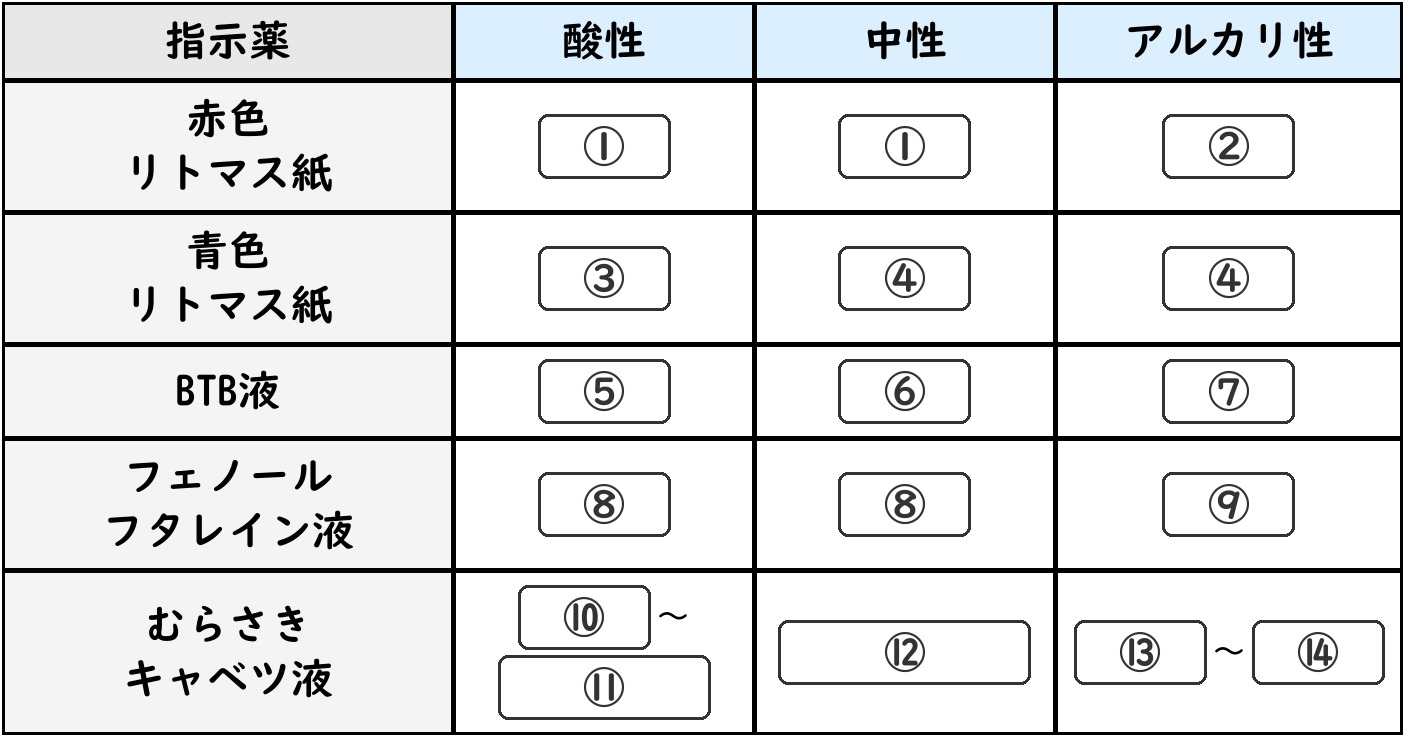
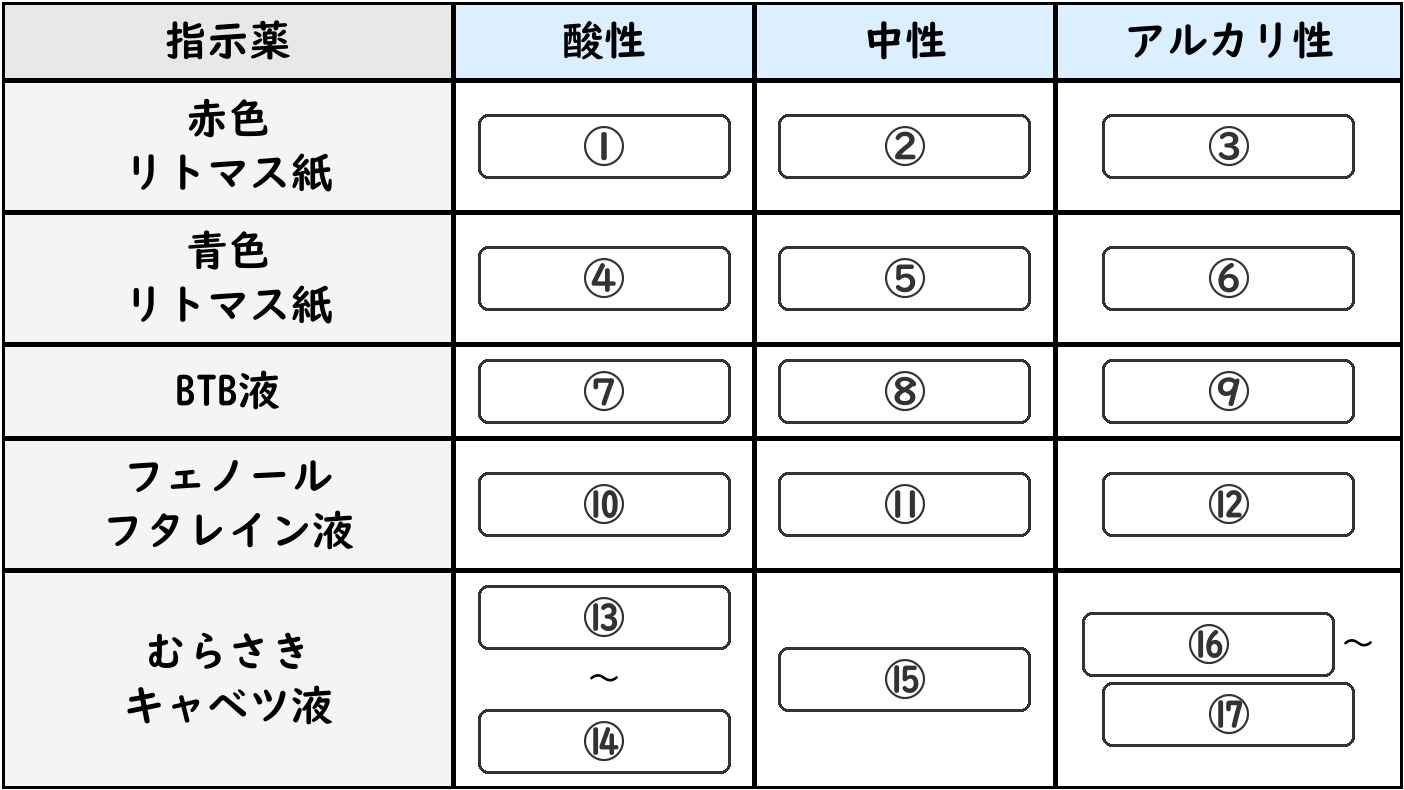
理科 第3回: 指示薬の表を1マス1番号（①〜⑰）に振り直し、聞けなかった3マスを追加
元データ（4db08056）を取り込み、1619 → 1622問。増えた3（r3m169〜171）。番号だけ変わった13問と、答えを①②の形にした4問は id そのまま。画像 r3_shijiyaku.jpg（1404x790）と IMG_SIZES も同じコミット。

Changed region(s): [[0.0, 0.0, 1.0, 1.0], [0.5513, 0.8125, 0.735, 0.9375]]

diff --git a/index.html b/index.html
@@ -2629,7 +2629,7 @@ function startConnectTimeout(side){
 // images/内の各画像の実サイズ。<img>にwidth/height属性を設定することで、
 // 読み込み前でも正しい縦横比の分だけ表示スペースを確保でき、
 // 画像読み込み完了時のレイアウトのガタつき（＝それに伴うタップのすれ違い）を防ぐ。
-const IMG_SIZES = {"img_01.jpg":[581,620],"img_02.jpg":[627,579],"img_03.jpg":[714,417],"img_04.jpg":[514,483],"img_05.jpg":[644,532],"img_06.jpg":[463,429],"img_07.jpg":[1156,446],"img_08.jpg":[573,586],"img_09.jpg":[506,198],"img_10.jpg":[497,146],"img_11.jpg":[503,499],"img_12.jpg":[518,578],"img_13.jpg":[746,621],"img_14.jpg":[713,567],"img_15.jpg":[658,628],"img_16.png":[642,589],"img_17.png":[535,597],"img_18.png":[510,295],"img_19.png":[1399,307],"img_20.png":[448,714],"img_21.png":[648,595],"img_22.png":[244,234],"img_23.jpg":[346,355],"img_24.jpg":[209,263],"img_25.jpg":[228,244],"kai1_01.jpg":[374,356],"kai1_02.jpg":[348,339],"kai1_03.jpg":[492,339],"kai1_04.jpg":[352,340],"kai1_05.jpg":[357,340],"kai1_06.jpg":[261,340],"kai1_07.jpg":[461,340],"kai1_08.jpg":[444,340],"kai1_09.jpg":[357,340],"kai1_10.jpg":[601,340],"kai1_11.jpg":[635,340],"kai1_12.jpg":[2019,1084],"kai1_13.jpg":[516,490],"kai1_14.jpg":[560,254],"kai1_15.jpg":[595,324],"kai1_17.jpg":[2028,783],"kai1_18.jpg":[2019,1084],"kai1_20.jpg":[2019,1084],"kai1_21.jpg":[2019,1084],"kai1_22.jpg":[595,569],"kai1_23.jpg":[595,569],"kai1_24.jpg":[2019,1084],"kai1_25.jpg":[595,569],"kai1_26.jpg":[595,569],"kai1_27.jpg":[700,508],"kai1_28.jpg":[951,720],"kai1_29.jpg":[2240,1180],"kai1_30.jpg":[1181,1244],"kai2_01.jpg":[697,350],"kai2_02.jpg":[769,524],"kai2_03.jpg":[529,297],"kai2_04.jpg":[529,313],"kai2_05.jpg":[1216,2126],"kai3_01.jpg":[530,460],"kai3_02.jpg":[680,460],"kai3_03.jpg":[700,460],"kai3_04.jpg":[675,330],"kai3_05.jpg":[2408,1775],"kai3_06.jpg":[1988,1222],"kai3_07.jpg":[1189,2001],"kai4_01.jpg":[1189,1839],"kai5_01.jpg":[1189,1027],"kai5_02.jpg":[743,534],"kaki_r1_01.jpg":[761,180],"kaki_r1_02.jpg":[761,206],"kaki_r1_03.jpg":[796,180],"kaki_r1_04.jpg":[761,179],"kaki_r1_05.jpg":[796,206],"kaki_r1_06.jpg":[830,214],"kaki_r1_07.jpg":[890,624],"kaki_r1_08.jpg":[430,380],"kaki_r1_map01.jpg":[1170,1210],"kaki_r1_map02.jpg":[1170,1210],"kaki_r1_map03.jpg":[1170,1210],"kaki_r1_map04.jpg":[1170,1210],"kaki_r1_map05.jpg":[1170,1210],"kaki_r1_map06.jpg":[1170,1210],"kaki_r1_map07.jpg":[1170,1210],"kaki_r1_map08.jpg":[1170,1210],"kaki_r1_map09.jpg":[1170,1210],"kaki_r1_map10.jpg":[1170,1210],"kaki_r1_map11.jpg":[1170,1210],"kaki_r1_map12.jpg":[1170,1210],"kaki_r1_map13.jpg":[1170,1210],"kaki_r1_map14.jpg":[1170,1210],"kaki_r1_map15.jpg":[1170,1210],"kaki_r2_graph01.jpg":[1215,1340],"kaki_r2_graph02.jpg":[1295,850],"kaki_r2_graph03.jpg":[1265,680],"kaki_r2_graph04.jpg":[1225,320],"kaki_r2_graph06.jpg":[1045,560],"kaki_r2_graph07.jpg":[700,870],"kaki_r2_map01.jpg":[1140,1090],"kaki_r2_map05.jpg":[1035,900],"kaki_r2_map07.jpg":[2315,1650],"kaki_r2_map08.jpg":[2315,1650],"kaki_r2_map09.jpg":[2315,1650],"kaki_r2_map10.jpg":[2315,1650],"kaki_r2_map11.jpg":[2315,1650],"kaki_r2_map12.jpg":[2315,1650],"kaki_r2_map13.jpg":[2315,1650],"kaki_r2_map14.jpg":[2315,1650],"kaki_r2_map15.jpg":[2315,1650],"kaki_r2_map16.jpg":[2315,1650],"kaki_r2_map17.jpg":[2315,1650],"kaki_r2_map18.jpg":[2315,1650],"kaki_r2_map19.jpg":[2315,1650],"kaki_r3_graph01.jpg":[1015,580],"kaki_r3_house01.jpg":[505,355],"kaki_r3_map01.jpg":[2415,3414],"kaki_r3_map02.jpg":[2415,3414],"kaki_r3_map03.jpg":[2415,3414],"kaki_r3_map04.jpg":[2415,3414],"kaki_r3_map05.jpg":[2415,3414],"kaki_r3_map06.jpg":[2415,3414],"kaki_r3_map07.jpg":[2415,3414],"kaki_r3_map08.jpg":[2415,3414],"kaki_r3_map09.jpg":[2415,3414],"kaki_r3_map10.jpg":[2415,3414],"kaki_r3_map11.jpg":[2415,3414],"kaki_r3_map12.jpg":[2415,3414],"kaki_r3_map13.jpg":[2415,3414],"kaki_r3_map14.jpg":[2415,3414],"kaki_r3_map15.jpg":[2415,3414],"kaki_r3_map16.jpg":[2415,3414],"kaki_r3_map17.jpg":[2415,3414],"kaki_r3_map18.jpg":[2415,3414],"kaki_r3_map19.jpg":[2415,3414],"kaki_r3_map20.jpg":[2415,3414],"kaki_r3_map21.jpg":[2415,3414],"kaki_r3_map22.jpg":[2415,3414],"kaki_r3_map23.jpg":[2415,3417],"kaki_r3_map24.jpg":[2415,3417],"kaki_r3_map25.jpg":[2415,3417],"kaki_r3_map26.jpg":[2415,3417],"kaki_r3_map27.jpg":[2415,3417],"kaki_r3_map28.jpg":[2415,3417],"kaki_r3_map29.jpg":[2415,3417],"kaki_r3_map30.jpg":[2415,3417],"kaki_r3_map31.jpg":[2415,3417],"kaki_r3_map32.jpg":[2415,3417],"kaki_r3_map33.jpg":[2415,3417],"kaki_r3_map34.jpg":[2415,3417],"kaki_r3_map35.jpg":[2415,3417],"kaki_r3_map36.jpg":[2415,3417],"kaki_r3_map37.jpg":[1265,910],"kaki_r3_shapes.jpg":[2315,480],"kaki_r4_graph01.jpg":[910,300],"kaki_r4_graph02.jpg":[760,200],"kaki_r4_map01.jpg":[1610,980],"kaki_r4_map02.jpg":[1610,1380],"kaki_r4_map03.jpg":[540,570],"kaki_r4_map04.jpg":[1480,1310],"kaki_r4_map05.jpg":[1480,1310],"kaki_r4_map06.jpg":[1480,1310],"kaki_r4_map07.jpg":[1480,1310],"kaki_r4_map08.jpg":[1480,1310],"kaki_r4_map09.jpg":[1480,1310],"kaki_r4_map10.jpg":[1480,1310],"kaki_r4_map11.jpg":[1480,1310],"kaki_r4_map12.jpg":[1480,1310],"kaki_r4_map13.jpg":[1480,1310],"kaki_r4_map14.jpg":[1480,1310],"kaki_r4_map15.jpg":[1480,1310],"kaki_r4_map16.jpg":[1480,1310],"kaki_r4_map17.jpg":[1480,1310],"kaki_r4_map18.jpg":[1480,1310],"kaki_r4_map19.jpg":[1480,1310],"kaki_r4_map20.jpg":[1480,1310],"kaki_r4_map21.jpg":[1480,1310],"kaki_r4_map22.jpg":[1480,1310],"kaki_r4_map23.jpg":[1480,1310],"kaki_r4_map24.jpg":[1480,1310],"kaki_r4_map25.jpg":[1630,1440],"kaki_r4_map26.jpg":[1630,1440],"kaki_r4_map27.jpg":[1630,1440],"kaki_r4_map28.jpg":[1630,1440],"kaki_r4_map29.jpg":[1630,1440],"kaki_r4_map30.jpg":[1630,1440],"kaki_r4_map31.jpg":[1630,1440],"kaki_r4_map32.jpg":[1630,1440],"kaki_r4_map33.jpg":[1630,1440],"kaki_r4_map34.jpg":[1630,1440],"kaki_r4_map35.jpg":[1630,1440],"kaki_r4_map36.jpg":[1630,1440],"kaki_r4_map37.jpg":[1630,1440],"kaki_r4_map38.jpg":[1630,1440],"kaki_r4_map39.jpg":[1630,1440],"kaki_r4_map40.jpg":[1630,1440],"kaki_r4_map41.jpg":[1630,1440],"kaki_r4_shapes01.jpg":[1470,520],"kaki_r4_shapes02.jpg":[1970,870],"kaki_r5_graph02.jpg":[610,665],"kaki_r5_graph05.jpg":[2105,343],"kaki_r5_map01.jpg":[1540,1550],"kaki_r5_map02.jpg":[1540,1550],"kaki_r5_map03.jpg":[1540,1550],"kaki_r5_map04.jpg":[1540,1550],"kaki_r5_map05.jpg":[1540,1550],"kaki_r5_map06.jpg":[1540,1550],"kaki_r5_map07.jpg":[1540,1550],"kaki_r5_map08.jpg":[1540,1550],"kaki_r5_map09.jpg":[1540,1550],"kaki_r5_map10.jpg":[1540,1550],"kaki_r5_map11.jpg":[1540,1550],"kaki_r5_map12.jpg":[1540,1550],"kaki_r5_map13.jpg":[1540,1550],"kaki_r5_map14.jpg":[1540,1550],"kaki_r5_map15.jpg":[1540,1550],"kaki_r5_map16.jpg":[1540,1550],"kaki_r5_map17.jpg":[1540,1550],"kaki_r5_map18.jpg":[1540,1550],"kaki_r5_map19.jpg":[1700,1740],"kaki_r5_map20.jpg":[1700,1740],"kaki_r5_map21.jpg":[1700,1740],"kaki_r5_map22.jpg":[1700,1740],"kaki_r5_map23.jpg":[1700,1740],"kaki_r5_map24.jpg":[1700,1740],"kaki_r5_map25.jpg":[1700,1740],"kaki_r5_map26.jpg":[1700,1740],"kaki_r5_map27.jpg":[1700,1740],"kaki_r5_map28.jpg":[1700,1740],"kaki_r5_map29.jpg":[1700,1740],"kaki_r5_map30.jpg":[1700,1740],"kaki_r5_map31.jpg":[1700,1740],"kaki_r5_map32.jpg":[540,600],"kaki_r5_shapes02.jpg":[800,635],"kaki_r5_shapes03.jpg":[460,480],"kaki_r5_table01.jpg":[1370,390],"kaki_r5_table02.jpg":[1170,580],"kaki_r6_graph01.jpg":[850,1005],"kaki_r6_map01.jpg":[1500,1320],"kaki_r6_map02.jpg":[1500,1320],"kaki_r6_map03.jpg":[1500,1320],"kaki_r6_map04.jpg":[1500,1320],"kaki_r6_map05.jpg":[1500,1320],"kaki_r6_map06.jpg":[1500,1320],"kaki_r6_map07.jpg":[1500,1320],"kaki_r6_map08.jpg":[1500,1320],"kaki_r6_map09.jpg":[1500,1320],"kaki_r6_map10.jpg":[1500,1320],"kaki_r6_map11.jpg":[1500,1320],"kaki_r6_map12.jpg":[1500,1320],"kaki_r6_map13.jpg":[1500,1320],"kaki_r6_map14.jpg":[1500,1320],"kaki_r6_map15.jpg":[1500,1320],"kaki_r6_map16.jpg":[1500,1320],"kaki_r6_map17.jpg":[1500,1320],"kaki_r6_map18.jpg":[1500,1320],"kaki_r6_map19.jpg":[1500,1320],"kaki_r6_map20.jpg":[1500,1320],"kaki_r6_map21.jpg":[1500,1320],"kaki_r6_map22.jpg":[1500,1320],"kaki_r6_map23.jpg":[1500,1320],"kaki_r6_map24.jpg":[1500,1320],"kaki_r6_map25.jpg":[1500,1320],"kaki_r6_map26.jpg":[1500,1320],"kaki_r6_map27.jpg":[1500,1320],"kaki_r6_map28.jpg":[1420,1480],"kaki_r6_map29.jpg":[1420,1480],"kaki_r6_map30.jpg":[1420,1480],"kaki_r6_map31.jpg":[1420,1480],"kaki_r6_map32.jpg":[1420,1480],"kaki_r6_map33.jpg":[1420,1480],"kaki_r6_map34.jpg":[1420,1480],"kaki_r6_map35.jpg":[1420,1480],"kaki_r6_map36.jpg":[1420,1480],"kaki_r6_map37.jpg":[1420,1480],"kaki_r6_map38.jpg":[1420,1480],"kaki_r6_map39.jpg":[1420,1480],"kaki_r6_map40.jpg":[1420,1480],"kaki_r6_map41.jpg":[1420,1480],"kaki_r6_map42.jpg":[1420,1480],"kaki_r6_map43.jpg":[1420,1480],"kaki_r6_map44.jpg":[1420,1480],"kaki_r6_map45.jpg":[1420,1480],"kaki_r6_map46.jpg":[1420,1480],"kaki_r6_map47.jpg":[1420,1480],"kaki_r6_map48.jpg":[750,845],"kaki_r6_map49.jpg":[600,700],"kaki_r6_table01.jpg":[2010,445],"kaki_r7_graph02.jpg":[720,340],"kaki_r7_map01.jpg":[1840,1620],"kaki_r7_map02.jpg":[1840,1620],"kaki_r7_map03.jpg":[1840,1620],"kaki_r7_map04.jpg":[1840,1620],"kaki_r7_map05.jpg":[1840,1620],"kaki_r7_map06.jpg":[1840,1620],"kaki_r7_map07.jpg":[1840,1620],"kaki_r7_map08.jpg":[1840,1620],"kaki_r7_map09.jpg":[1840,1620],"kaki_r7_map10.jpg":[1840,1620],"kaki_r7_map11.jpg":[1840,1620],"kaki_r7_map12.jpg":[1840,1620],"kaki_r7_map13.jpg":[1840,1620],"kaki_r7_map14.jpg":[1840,1620],"kaki_r7_map15.jpg":[1840,1620],"kaki_r7_map16.jpg":[1840,1620],"kaki_r7_map17.jpg":[1840,1620],"kaki_r7_map18.jpg":[1500,1620],"kaki_r7_map19.jpg":[1500,1620],"kaki_r7_map20.jpg":[1500,1620],"kaki_r7_map21.jpg":[1500,1620],"kaki_r7_map22.jpg":[1500,1620],"kaki_r7_map23.jpg":[1500,1620],"kaki_r7_map24.jpg":[1500,1620],"kaki_r7_map25.jpg":[1500,1620],"kaki_r7_map26.jpg":[1500,1620],"kaki_r7_map27.jpg":[1500,1620],"kaki_r7_map28.jpg":[1500,1620],"kaki_r7_map29.jpg":[1500,1620],"kaki_r7_map30.jpg":[1500,1620],"kaki_r7_map31.jpg":[1500,1620],"kaki_r7_map32.jpg":[1500,1620],"kaki_r7_map33.jpg":[1500,1620],"kaki_r7_map34.jpg":[1500,1620],"kaki_r7_map35.jpg":[1500,1620],"kaki_r7_map36.jpg":[680,550],"kaki_r7_table01.jpg":[1100,420],"kaki_r7_table02.jpg":[1730,890],"kaki_r8_map01.jpg":[1220,1720],"kaki_r8_map02.jpg":[1220,1720],"kaki_r8_map03.jpg":[1220,1720],"kaki_r8_map04.jpg":[1220,1720],"kaki_r8_map05.jpg":[1220,1720],"kaki_r8_map06.jpg":[1220,1720],"kaki_r8_map07.jpg":[1220,1720],"kaki_r8_map08.jpg":[1220,1720],"kaki_r8_map09.jpg":[1220,1720],"kaki_r8_map10.jpg":[1220,1720],"kaki_r8_map11.jpg":[1220,1720],"kaki_r8_map12.jpg":[1220,1720],"kaki_r8_map13.jpg":[1220,1720],"kaki_r8_map14.jpg":[1220,1720],"kaki_r8_map15.jpg":[1220,1720],"kaki_r8_map16.jpg":[1220,1720],"kaki_r8_map17.jpg":[1220,1720],"kaki_r8_map18.jpg":[1220,1720],"kaki_r8_map19.jpg":[1220,1720],"kaki_r8_map20.jpg":[1220,1720],"kaki_r8_map21.jpg":[1220,1720],"kaki_r8_map22.jpg":[1220,1720],"kaki_r8_map23.jpg":[1220,1720],"kaki_r8_map24.jpg":[1220,1720],"kaki_r8_map25.jpg":[1220,1720],"kaki_r8_map26.jpg":[1220,1720],"kaki_r8_map27.jpg":[1220,1720],"kaki_r8_map28.jpg":[1220,1720],"kaki_r8_map29.jpg":[1220,1720],"kaki_r8_map30.jpg":[1220,1720],"kaki_r8_map31.jpg":[1220,1720],"kaki_r8_map32.jpg":[1220,1720],"kaki_r8_map33.jpg":[1220,1720],"kaki_r8_map34.jpg":[1220,1720],"kaki_r8_map35.jpg":[1870,1560],"kaki_r8_map36.jpg":[1870,1560],"kaki_r8_map37.jpg":[1870,1560],"kaki_r8_map38.jpg":[1870,1560],"kaki_r8_map39.jpg":[1870,1560],"kaki_r8_map40.jpg":[1870,1560],"kaki_r8_map41.jpg":[1870,1560],"kaki_r8_map42.jpg":[1870,1560],"kaki_r8_map43.jpg":[1870,1560],"kaki_r8_map44.jpg":[1870,1560],"kaki_r8_map45.jpg":[1870,1560],"kaki_r8_map46.jpg":[1870,1560],"kaki_r8_map47.jpg":[1870,1560],"kaki_r8_map48.jpg":[1870,1560],"kaki_r8_map49.jpg":[1870,1560],"kaki_r8_map50.jpg":[1870,1560],"kaki_r8_map51.jpg":[1870,1560],"kaki_r8_map52.jpg":[1870,1560],"kaki_r8_map53.jpg":[1870,1560],"kaki_r8_map54.jpg":[1870,1560],"kaki_r8_map55.jpg":[1870,1560],"kaki_r8_map56.jpg":[1870,1560],"kaki_r8_map57.jpg":[1870,1560],"kaki_r8_map58.jpg":[640,630],"r1_01.jpg":[2188,900],"r1_02.jpg":[1130,1070],"r1_03.jpg":[1660,400],"r1_04.jpg":[476,377],"r1_05.jpg":[1299,625],"r1_06.jpg":[950,360],"r1_shinrin.jpg":[1404,1185],"r2_01.jpg":[1400,673],"r2_02.jpg":[1400,365],"r2_03.jpg":[1400,346],"r2_04.jpg":[1400,997],"r2_05.jpg":[1400,692],"r2_06.jpg":[1392,600],"r2_07.jpg":[1392,623],"r2_08.jpg":[1392,701],"r2_09.jpg":[1419,823],"r2_10.jpg":[1419,823],"r2_11.jpg":[1419,823],"r2_12.jpg":[1419,956],"r2_13.jpg":[1419,956],"r2_14.jpg":[1419,956],"r2_15.jpg":[1400,946],"r2_16.jpg":[1400,946],"r2_17.jpg":[1400,946],"r2_18.jpg":[1400,883],"r2_19.jpg":[1400,883],"r2_20.jpg":[1427,1895],"r2_21.jpg":[1427,1895],"r2_22.jpg":[1427,1895],"r2_23.jpg":[1427,1895],"r2_24.jpg":[1427,1895],"r2_25.jpg":[1427,1895],"r2_26.jpg":[1410,1983],"r2_27.jpg":[1410,1983],"r2_28.jpg":[1410,1983],"r2_29.jpg":[1410,1983],"r2_30.jpg":[1419,946],"r2_31.jpg":[1419,946],"r2_32.jpg":[1419,946],"r2_33.jpg":[1419,946],"r2_34.jpg":[1419,538],"r2_35.jpg":[1419,538],"r2_36.jpg":[1419,538],"r2_37.jpg":[1419,538],"r2_38.jpg":[1419,546],"r2_39.jpg":[1401,913],"r2_40.jpg":[1401,1937],"r3_chuuwa.jpg":[1404,444],"r3_seishitsu.jpg":[1404,2041],"r3_shijiyaku.jpg":[1404,736],"r3_yomi21.jpg":[645,466],"r3_yomi24.jpg":[1404,382],"r3_yomi25.jpg":[1170,1095],"r3_yomi27.jpg":[1404,310],"r3_yomi36.jpg":[780,600],"r4_01.jpg":[880,1168],"r4_02.jpg":[1175,434],"r4_03.jpg":[759,1084],"r4_04.jpg":[1404,1960]};
+const IMG_SIZES = {"img_01.jpg":[581,620],"img_02.jpg":[627,579],"img_03.jpg":[714,417],"img_04.jpg":[514,483],"img_05.jpg":[644,532],"img_06.jpg":[463,429],"img_07.jpg":[1156,446],"img_08.jpg":[573,586],"img_09.jpg":[506,198],"img_10.jpg":[497,146],"img_11.jpg":[503,499],"img_12.jpg":[518,578],"img_13.jpg":[746,621],"img_14.jpg":[713,567],"img_15.jpg":[658,628],"img_16.png":[642,589],"img_17.png":[535,597],"img_18.png":[510,295],"img_19.png":[1399,307],"img_20.png":[448,714],"img_21.png":[648,595],"img_22.png":[244,234],"img_23.jpg":[346,355],"img_24.jpg":[209,263],"img_25.jpg":[228,244],"kai1_01.jpg":[374,356],"kai1_02.jpg":[348,339],"kai1_03.jpg":[492,339],"kai1_04.jpg":[352,340],"kai1_05.jpg":[357,340],"kai1_06.jpg":[261,340],"kai1_07.jpg":[461,340],"kai1_08.jpg":[444,340],"kai1_09.jpg":[357,340],"kai1_10.jpg":[601,340],"kai1_11.jpg":[635,340],"kai1_12.jpg":[2019,1084],"kai1_13.jpg":[516,490],"kai1_14.jpg":[560,254],"kai1_15.jpg":[595,324],"kai1_17.jpg":[2028,783],"kai1_18.jpg":[2019,1084],"kai1_20.jpg":[2019,1084],"kai1_21.jpg":[2019,1084],"kai1_22.jpg":[595,569],"kai1_23.jpg":[595,569],"kai1_24.jpg":[2019,1084],"kai1_25.jpg":[595,569],"kai1_26.jpg":[595,569],"kai1_27.jpg":[700,508],"kai1_28.jpg":[951,720],"kai1_29.jpg":[2240,1180],"kai1_30.jpg":[1181,1244],"kai2_01.jpg":[697,350],"kai2_02.jpg":[769,524],"kai2_03.jpg":[529,297],"kai2_04.jpg":[529,313],"kai2_05.jpg":[1216,2126],"kai3_01.jpg":[530,460],"kai3_02.jpg":[680,460],"kai3_03.jpg":[700,460],"kai3_04.jpg":[675,330],"kai3_05.jpg":[2408,1775],"kai3_06.jpg":[1988,1222],"kai3_07.jpg":[1189,2001],"kai4_01.jpg":[1189,1839],"kai5_01.jpg":[1189,1027],"kai5_02.jpg":[743,534],"kaki_r1_01.jpg":[761,180],"kaki_r1_02.jpg":[761,206],"kaki_r1_03.jpg":[796,180],"kaki_r1_04.jpg":[761,179],"kaki_r1_05.jpg":[796,206],"kaki_r1_06.jpg":[830,214],"kaki_r1_07.jpg":[890,624],"kaki_r1_08.jpg":[430,380],"kaki_r1_map01.jpg":[1170,1210],"kaki_r1_map02.jpg":[1170,1210],"kaki_r1_map03.jpg":[1170,1210],"kaki_r1_map04.jpg":[1170,1210],"kaki_r1_map05.jpg":[1170,1210],"kaki_r1_map06.jpg":[1170,1210],"kaki_r1_map07.jpg":[1170,1210],"kaki_r1_map08.jpg":[1170,1210],"kaki_r1_map09.jpg":[1170,1210],"kaki_r1_map10.jpg":[1170,1210],"kaki_r1_map11.jpg":[1170,1210],"kaki_r1_map12.jpg":[1170,1210],"kaki_r1_map13.jpg":[1170,1210],"kaki_r1_map14.jpg":[1170,1210],"kaki_r1_map15.jpg":[1170,1210],"kaki_r2_graph01.jpg":[1215,1340],"kaki_r2_graph02.jpg":[1295,850],"kaki_r2_graph03.jpg":[1265,680],"kaki_r2_graph04.jpg":[1225,320],"kaki_r2_graph06.jpg":[1045,560],"kaki_r2_graph07.jpg":[700,870],"kaki_r2_map01.jpg":[1140,1090],"kaki_r2_map05.jpg":[1035,900],"kaki_r2_map07.jpg":[2315,1650],"kaki_r2_map08.jpg":[2315,1650],"kaki_r2_map09.jpg":[2315,1650],"kaki_r2_map10.jpg":[2315,1650],"kaki_r2_map11.jpg":[2315,1650],"kaki_r2_map12.jpg":[2315,1650],"kaki_r2_map13.jpg":[2315,1650],"kaki_r2_map14.jpg":[2315,1650],"kaki_r2_map15.jpg":[2315,1650],"kaki_r2_map16.jpg":[2315,1650],"kaki_r2_map17.jpg":[2315,1650],"kaki_r2_map18.jpg":[2315,1650],"kaki_r2_map19.jpg":[2315,1650],"kaki_r3_graph01.jpg":[1015,580],"kaki_r3_house01.jpg":[505,355],"kaki_r3_map01.jpg":[2415,3414],"kaki_r3_map02.jpg":[2415,3414],"kaki_r3_map03.jpg":[2415,3414],"kaki_r3_map04.jpg":[2415,3414],"kaki_r3_map05.jpg":[2415,3414],"kaki_r3_map06.jpg":[2415,3414],"kaki_r3_map07.jpg":[2415,3414],"kaki_r3_map08.jpg":[2415,3414],"kaki_r3_map09.jpg":[2415,3414],"kaki_r3_map10.jpg":[2415,3414],"kaki_r3_map11.jpg":[2415,3414],"kaki_r3_map12.jpg":[2415,3414],"kaki_r3_map13.jpg":[2415,3414],"kaki_r3_map14.jpg":[2415,3414],"kaki_r3_map15.jpg":[2415,3414],"kaki_r3_map16.jpg":[2415,3414],"kaki_r3_map17.jpg":[2415,3414],"kaki_r3_map18.jpg":[2415,3414],"kaki_r3_map19.jpg":[2415,3414],"kaki_r3_map20.jpg":[2415,3414],"kaki_r3_map21.jpg":[2415,3414],"kaki_r3_map22.jpg":[2415,3414],"kaki_r3_map23.jpg":[2415,3417],"kaki_r3_map24.jpg":[2415,3417],"kaki_r3_map25.jpg":[2415,3417],"kaki_r3_map26.jpg":[2415,3417],"kaki_r3_map27.jpg":[2415,3417],"kaki_r3_map28.jpg":[2415,3417],"kaki_r3_map29.jpg":[2415,3417],"kaki_r3_map30.jpg":[2415,3417],"kaki_r3_map31.jpg":[2415,3417],"kaki_r3_map32.jpg":[2415,3417],"kaki_r3_map33.jpg":[2415,3417],"kaki_r3_map34.jpg":[2415,3417],"kaki_r3_map35.jpg":[2415,3417],"kaki_r3_map36.jpg":[2415,3417],"kaki_r3_map37.jpg":[1265,910],"kaki_r3_shapes.jpg":[2315,480],"kaki_r4_graph01.jpg":[910,300],"kaki_r4_graph02.jpg":[760,200],"kaki_r4_map01.jpg":[1610,980],"kaki_r4_map02.jpg":[1610,1380],"kaki_r4_map03.jpg":[540,570],"kaki_r4_map04.jpg":[1480,1310],"kaki_r4_map05.jpg":[1480,1310],"kaki_r4_map06.jpg":[1480,1310],"kaki_r4_map07.jpg":[1480,1310],"kaki_r4_map08.jpg":[1480,1310],"kaki_r4_map09.jpg":[1480,1310],"kaki_r4_map10.jpg":[1480,1310],"kaki_r4_map11.jpg":[1480,1310],"kaki_r4_map12.jpg":[1480,1310],"kaki_r4_map13.jpg":[1480,1310],"kaki_r4_map14.jpg":[1480,1310],"kaki_r4_map15.jpg":[1480,1310],"kaki_r4_map16.jpg":[1480,1310],"kaki_r4_map17.jpg":[1480,1310],"kaki_r4_map18.jpg":[1480,1310],"kaki_r4_map19.jpg":[1480,1310],"kaki_r4_map20.jpg":[1480,1310],"kaki_r4_map21.jpg":[1480,1310],"kaki_r4_map22.jpg":[1480,1310],"kaki_r4_map23.jpg":[1480,1310],"kaki_r4_map24.jpg":[1480,1310],"kaki_r4_map25.jpg":[1630,1440],"kaki_r4_map26.jpg":[1630,1440],"kaki_r4_map27.jpg":[1630,1440],"kaki_r4_map28.jpg":[1630,1440],"kaki_r4_map29.jpg":[1630,1440],"kaki_r4_map30.jpg":[1630,1440],"kaki_r4_map31.jpg":[1630,1440],"kaki_r4_map32.jpg":[1630,1440],"kaki_r4_map33.jpg":[1630,1440],"kaki_r4_map34.jpg":[1630,1440],"kaki_r4_map35.jpg":[1630,1440],"kaki_r4_map36.jpg":[1630,1440],"kaki_r4_map37.jpg":[1630,1440],"kaki_r4_map38.jpg":[1630,1440],"kaki_r4_map39.jpg":[1630,1440],"kaki_r4_map40.jpg":[1630,1440],"kaki_r4_map41.jpg":[1630,1440],"kaki_r4_shapes01.jpg":[1470,520],"kaki_r4_shapes02.jpg":[1970,870],"kaki_r5_graph02.jpg":[610,665],"kaki_r5_graph05.jpg":[2105,343],"kaki_r5_map01.jpg":[1540,1550],"kaki_r5_map02.jpg":[1540,1550],"kaki_r5_map03.jpg":[1540,1550],"kaki_r5_map04.jpg":[1540,1550],"kaki_r5_map05.jpg":[1540,1550],"kaki_r5_map06.jpg":[1540,1550],"kaki_r5_map07.jpg":[1540,1550],"kaki_r5_map08.jpg":[1540,1550],"kaki_r5_map09.jpg":[1540,1550],"kaki_r5_map10.jpg":[1540,1550],"kaki_r5_map11.jpg":[1540,1550],"kaki_r5_map12.jpg":[1540,1550],"kaki_r5_map13.jpg":[1540,1550],"kaki_r5_map14.jpg":[1540,1550],"kaki_r5_map15.jpg":[1540,1550],"kaki_r5_map16.jpg":[1540,1550],"kaki_r5_map17.jpg":[1540,1550],"kaki_r5_map18.jpg":[1540,1550],"kaki_r5_map19.jpg":[1700,1740],"kaki_r5_map20.jpg":[1700,1740],"kaki_r5_map21.jpg":[1700,1740],"kaki_r5_map22.jpg":[1700,1740],"kaki_r5_map23.jpg":[1700,1740],"kaki_r5_map24.jpg":[1700,1740],"kaki_r5_map25.jpg":[1700,1740],"kaki_r5_map26.jpg":[1700,1740],"kaki_r5_map27.jpg":[1700,1740],"kaki_r5_map28.jpg":[1700,1740],"kaki_r5_map29.jpg":[1700,1740],"kaki_r5_map30.jpg":[1700,1740],"kaki_r5_map31.jpg":[1700,1740],"kaki_r5_map32.jpg":[540,600],"kaki_r5_shapes02.jpg":[800,635],"kaki_r5_shapes03.jpg":[460,480],"kaki_r5_table01.jpg":[1370,390],"kaki_r5_table02.jpg":[1170,580],"kaki_r6_graph01.jpg":[850,1005],"kaki_r6_map01.jpg":[1500,1320],"kaki_r6_map02.jpg":[1500,1320],"kaki_r6_map03.jpg":[1500,1320],"kaki_r6_map04.jpg":[1500,1320],"kaki_r6_map05.jpg":[1500,1320],"kaki_r6_map06.jpg":[1500,1320],"kaki_r6_map07.jpg":[1500,1320],"kaki_r6_map08.jpg":[1500,1320],"kaki_r6_map09.jpg":[1500,1320],"kaki_r6_map10.jpg":[1500,1320],"kaki_r6_map11.jpg":[1500,1320],"kaki_r6_map12.jpg":[1500,1320],"kaki_r6_map13.jpg":[1500,1320],"kaki_r6_map14.jpg":[1500,1320],"kaki_r6_map15.jpg":[1500,1320],"kaki_r6_map16.jpg":[1500,1320],"kaki_r6_map17.jpg":[1500,1320],"kaki_r6_map18.jpg":[1500,1320],"kaki_r6_map19.jpg":[1500,1320],"kaki_r6_map20.jpg":[1500,1320],"kaki_r6_map21.jpg":[1500,1320],"kaki_r6_map22.jpg":[1500,1320],"kaki_r6_map23.jpg":[1500,1320],"kaki_r6_map24.jpg":[1500,1320],"kaki_r6_map25.jpg":[1500,1320],"kaki_r6_map26.jpg":[1500,1320],"kaki_r6_map27.jpg":[1500,1320],"kaki_r6_map28.jpg":[1420,1480],"kaki_r6_map29.jpg":[1420,1480],"kaki_r6_map30.jpg":[1420,1480],"kaki_r6_map31.jpg":[1420,1480],"kaki_r6_map32.jpg":[1420,1480],"kaki_r6_map33.jpg":[1420,1480],"kaki_r6_map34.jpg":[1420,1480],"kaki_r6_map35.jpg":[1420,1480],"kaki_r6_map36.jpg":[1420,1480],"kaki_r6_map37.jpg":[1420,1480],"kaki_r6_map38.jpg":[1420,1480],"kaki_r6_map39.jpg":[1420,1480],"kaki_r6_map40.jpg":[1420,1480],"kaki_r6_map41.jpg":[1420,1480],"kaki_r6_map42.jpg":[1420,1480],"kaki_r6_map43.jpg":[1420,1480],"kaki_r6_map44.jpg":[1420,1480],"kaki_r6_map45.jpg":[1420,1480],"kaki_r6_map46.jpg":[1420,1480],"kaki_r6_map47.jpg":[1420,1480],"kaki_r6_map48.jpg":[750,845],"kaki_r6_map49.jpg":[600,700],"kaki_r6_table01.jpg":[2010,445],"kaki_r7_graph02.jpg":[720,340],"kaki_r7_map01.jpg":[1840,1620],"kaki_r7_map02.jpg":[1840,1620],"kaki_r7_map03.jpg":[1840,1620],"kaki_r7_map04.jpg":[1840,1620],"kaki_r7_map05.jpg":[1840,1620],"kaki_r7_map06.jpg":[1840,1620],"kaki_r7_map07.jpg":[1840,1620],"kaki_r7_map08.jpg":[1840,1620],"kaki_r7_map09.jpg":[1840,1620],"kaki_r7_map10.jpg":[1840,1620],"kaki_r7_map11.jpg":[1840,1620],"kaki_r7_map12.jpg":[1840,1620],"kaki_r7_map13.jpg":[1840,1620],"kaki_r7_map14.jpg":[1840,1620],"kaki_r7_map15.jpg":[1840,1620],"kaki_r7_map16.jpg":[1840,1620],"kaki_r7_map17.jpg":[1840,1620],"kaki_r7_map18.jpg":[1500,1620],"kaki_r7_map19.jpg":[1500,1620],"kaki_r7_map20.jpg":[1500,1620],"kaki_r7_map21.jpg":[1500,1620],"kaki_r7_map22.jpg":[1500,1620],"kaki_r7_map23.jpg":[1500,1620],"kaki_r7_map24.jpg":[1500,1620],"kaki_r7_map25.jpg":[1500,1620],"kaki_r7_map26.jpg":[1500,1620],"kaki_r7_map27.jpg":[1500,1620],"kaki_r7_map28.jpg":[1500,1620],"kaki_r7_map29.jpg":[1500,1620],"kaki_r7_map30.jpg":[1500,1620],"kaki_r7_map31.jpg":[1500,1620],"kaki_r7_map32.jpg":[1500,1620],"kaki_r7_map33.jpg":[1500,1620],"kaki_r7_map34.jpg":[1500,1620],"kaki_r7_map35.jpg":[1500,1620],"kaki_r7_map36.jpg":[680,550],"kaki_r7_table01.jpg":[1100,420],"kaki_r7_table02.jpg":[1730,890],"kaki_r8_map01.jpg":[1220,1720],"kaki_r8_map02.jpg":[1220,1720],"kaki_r8_map03.jpg":[1220,1720],"kaki_r8_map04.jpg":[1220,1720],"kaki_r8_map05.jpg":[1220,1720],"kaki_r8_map06.jpg":[1220,1720],"kaki_r8_map07.jpg":[1220,1720],"kaki_r8_map08.jpg":[1220,1720],"kaki_r8_map09.jpg":[1220,1720],"kaki_r8_map10.jpg":[1220,1720],"kaki_r8_map11.jpg":[1220,1720],"kaki_r8_map12.jpg":[1220,1720],"kaki_r8_map13.jpg":[1220,1720],"kaki_r8_map14.jpg":[1220,1720],"kaki_r8_map15.jpg":[1220,1720],"kaki_r8_map16.jpg":[1220,1720],"kaki_r8_map17.jpg":[1220,1720],"kaki_r8_map18.jpg":[1220,1720],"kaki_r8_map19.jpg":[1220,1720],"kaki_r8_map20.jpg":[1220,1720],"kaki_r8_map21.jpg":[1220,1720],"kaki_r8_map22.jpg":[1220,1720],"kaki_r8_map23.jpg":[1220,1720],"kaki_r8_map24.jpg":[1220,1720],"kaki_r8_map25.jpg":[1220,1720],"kaki_r8_map26.jpg":[1220,1720],"kaki_r8_map27.jpg":[1220,1720],"kaki_r8_map28.jpg":[1220,1720],"kaki_r8_map29.jpg":[1220,1720],"kaki_r8_map30.jpg":[1220,1720],"kaki_r8_map31.jpg":[1220,1720],"kaki_r8_map32.jpg":[1220,1720],"kaki_r8_map33.jpg":[1220,1720],"kaki_r8_map34.jpg":[1220,1720],"kaki_r8_map35.jpg":[1870,1560],"kaki_r8_map36.jpg":[1870,1560],"kaki_r8_map37.jpg":[1870,1560],"kaki_r8_map38.jpg":[1870,1560],"kaki_r8_map39.jpg":[1870,1560],"kaki_r8_map40.jpg":[1870,1560],"kaki_r8_map41.jpg":[1870,1560],"kaki_r8_map42.jpg":[1870,1560],"kaki_r8_map43.jpg":[1870,1560],"kaki_r8_map44.jpg":[1870,1560],"kaki_r8_map45.jpg":[1870,1560],"kaki_r8_map46.jpg":[1870,1560],"kaki_r8_map47.jpg":[1870,1560],"kaki_r8_map48.jpg":[1870,1560],"kaki_r8_map49.jpg":[1870,1560],"kaki_r8_map50.jpg":[1870,1560],"kaki_r8_map51.jpg":[1870,1560],"kaki_r8_map52.jpg":[1870,1560],"kaki_r8_map53.jpg":[1870,1560],"kaki_r8_map54.jpg":[1870,1560],"kaki_r8_map55.jpg":[1870,1560],"kaki_r8_map56.jpg":[1870,1560],"kaki_r8_map57.jpg":[1870,1560],"kaki_r8_map58.jpg":[640,630],"r1_01.jpg":[2188,900],"r1_02.jpg":[1130,1070],"r1_03.jpg":[1660,400],"r1_04.jpg":[476,377],"r1_05.jpg":[1299,625],"r1_06.jpg":[950,360],"r1_shinrin.jpg":[1404,1185],"r2_01.jpg":[1400,673],"r2_02.jpg":[1400,365],"r2_03.jpg":[1400,346],"r2_04.jpg":[1400,997],"r2_05.jpg":[1400,692],"r2_06.jpg":[1392,600],"r2_07.jpg":[1392,623],"r2_08.jpg":[1392,701],"r2_09.jpg":[1419,823],"r2_10.jpg":[1419,823],"r2_11.jpg":[1419,823],"r2_12.jpg":[1419,956],"r2_13.jpg":[1419,956],"r2_14.jpg":[1419,956],"r2_15.jpg":[1400,946],"r2_16.jpg":[1400,946],"r2_17.jpg":[1400,946],"r2_18.jpg":[1400,883],"r2_19.jpg":[1400,883],"r2_20.jpg":[1427,1895],"r2_21.jpg":[1427,1895],"r2_22.jpg":[1427,1895],"r2_23.jpg":[1427,1895],"r2_24.jpg":[1427,1895],"r2_25.jpg":[1427,1895],"r2_26.jpg":[1410,1983],"r2_27.jpg":[1410,1983],"r2_28.jpg":[1410,1983],"r2_29.jpg":[1410,1983],"r2_30.jpg":[1419,946],"r2_31.jpg":[1419,946],"r2_32.jpg":[1419,946],"r2_33.jpg":[1419,946],"r2_34.jpg":[1419,538],"r2_35.jpg":[1419,538],"r2_36.jpg":[1419,538],"r2_37.jpg":[1419,538],"r2_38.jpg":[1419,546],"r2_39.jpg":[1401,913],"r2_40.jpg":[1401,1937],"r3_chuuwa.jpg":[1404,444],"r3_seishitsu.jpg":[1404,2041],"r3_shijiyaku.jpg":[1404,790],"r3_yomi21.jpg":[645,466],"r3_yomi24.jpg":[1404,382],"r3_yomi25.jpg":[1170,1095],"r3_yomi27.jpg":[1404,310],"r3_yomi36.jpg":[780,600],"r4_01.jpg":[880,1168],"r4_02.jpg":[1175,434],"r4_03.jpg":[759,1084],"r4_04.jpg":[1404,1960]};
 
 // 画像を差し替える際、幅・高さの属性も一緒に設定する（IMG_SIZESに無い画像はそのまま）
 // ---- 年表の空らんを赤丸で示す位置（画像の幅・高さに対する割合）----

diff --git a/data.js b/data.js
@@ -5630,7 +5630,7 @@ const QA_DATA = [
   "id": "r3m114",
   "subj": "理科",
   "u": "第3回.水溶液の中和",
-  "q": "【指示薬の表②】表の②にあてはまる色を答えなさい。",
+  "q": "【指示薬の表③】表の③にあてはまる色を答えなさい。",
   "note": "理科29P（指示薬）／演習問題集、20P、まとめ⑪",
   "a": "青色",
   "img": "r3_shijiyaku.jpg",
@@ -5643,7 +5643,7 @@ const QA_DATA = [
   "id": "r3m115",
   "subj": "理科",
   "u": "第3回.水溶液の中和",
-  "q": "【指示薬の表③】表の③にあてはまる色を答えなさい。",
+  "q": "【指示薬の表④】表の④にあてはまる色を答えなさい。",
   "note": "理科29P（指示薬）／演習問題集、20P、まとめ⑪",
   "a": "赤色",
   "img": "r3_shijiyaku.jpg",
@@ -5656,7 +5656,7 @@ const QA_DATA = [
   "id": "r3m116",
   "subj": "理科",
   "u": "第3回.水溶液の中和",
-  "q": "【指示薬の表⑤】表の⑤にあてはまる色を答えなさい。",
+  "q": "【指示薬の表⑦】表の⑦にあてはまる色を答えなさい。",
   "note": "理科29P（指示薬）／演習問題集、20P、まとめ⑪",
   "a": "黄色",
   "img": "r3_shijiyaku.jpg",
@@ -5669,7 +5669,7 @@ const QA_DATA = [
   "id": "r3m117",
   "subj": "理科",
   "u": "第3回.水溶液の中和",
-  "q": "【指示薬の表⑥】表の⑥にあてはまる色を答えなさい。",
+  "q": "【指示薬の表⑧】表の⑧にあてはまる色を答えなさい。",
   "note": "理科29P（指示薬）／演習問題集、20P、まとめ⑪",
   "a": "緑色",
   "img": "r3_shijiyaku.jpg",
@@ -5682,7 +5682,7 @@ const QA_DATA = [
   "id": "r3m118",
   "subj": "理科",
   "u": "第3回.水溶液の中和",
-  "q": "【指示薬の表⑦】表の⑦にあてはまる色を答えなさい。",
+  "q": "【指示薬の表⑨】表の⑨にあてはまる色を答えなさい。",
   "note": "理科29P（指示薬）／演習問題集、20P、まとめ⑪",
   "a": "青色",
   "img": "r3_shijiyaku.jpg",
@@ -5695,7 +5695,7 @@ const QA_DATA = [
   "id": "r3m119",
   "subj": "理科",
   "u": "第3回.水溶液の中和",
-  "q": "【指示薬の表⑧】表の⑧にあてはまる色を答えなさい。",
+  "q": "【指示薬の表⑩】表の⑩にあてはまる色を答えなさい。",
   "note": "理科29P（指示薬）／演習問題集、20P、まとめ⑪",
   "a": "無色",
   "img": "r3_shijiyaku.jpg",
@@ -5708,7 +5708,7 @@ const QA_DATA = [
   "id": "r3m120",
   "subj": "理科",
   "u": "第3回.水溶液の中和",
-  "q": "【指示薬の表⑨】表の⑨にあてはまる色を答えなさい。",
+  "q": "【指示薬の表⑫】表の⑫にあてはまる色を答えなさい。",
   "note": "理科29P（指示薬）／演習問題集、20P、まとめ⑪",
   "a": "赤色",
   "img": "r3_shijiyaku.jpg",
@@ -5873,7 +5873,7 @@ const QA_DATA = [
   "id": "r3m139",
   "subj": "理科",
   "u": "第3回.水溶液の中和",
-  "q": "【指示薬の表④】表の④にあてはまる色を答えなさい。",
+  "q": "【指示薬の表⑤】表の⑤にあてはまる色を答えなさい。",
   "note": "理科29P・35P（指示薬）／演習問題集、20P、まとめ⑪",
   "a": "青色",
   "img": "r3_shijiyaku.jpg",
@@ -5913,9 +5913,9 @@ const QA_DATA = [
   "id": "r3m142",
   "subj": "理科",
   "u": "第3回.水溶液の中和",
-  "q": "ある濃さの塩酸を6cm³ずつ入れた4本の試験管A・B・C・Dに、同じ濃さの水酸化ナトリウム水溶液を、Aに0cm³、Bに3cm³、Cに6cm³、Dに9cm³加えました。試験管Cの溶液を赤色リトマス紙と青色リトマス紙につけると、どちらも色が変化しませんでした。試験管BとDの溶液は、それぞれ何性ですか。",
+  "q": "ある濃さの塩酸を6cm³ずつ入れた4本の試験管A・B・C・Dに、同じ濃さの水酸化ナトリウム水溶液を、Aに0cm³、Bに3cm³、Cに6cm³、Dに9cm³加えました。試験管Cの溶液を赤色リトマス紙と青色リトマス紙につけると、どちらも色が変化しませんでした。試験管Bの溶液は（①）です。試験管Dの溶液は（②）です。①②にあてはまる液性を答えなさい。",
   "note": "演習問題集、23P、基本問題3 問2",
-  "a": "B…酸性　D…アルカリ性",
+  "a": "①酸性　②アルカリ性",
   "kai": 3,
   "kind": "memo",
   "priority": "高",
@@ -5940,9 +5940,9 @@ const QA_DATA = [
   "id": "r3m144",
   "subj": "理科",
   "u": "第3回.水溶液の中和",
-  "q": "【図】ある濃さの水酸化ナトリウム水溶液と塩酸の反応を調べました。〈実験1〉図のように、水溶液Xを同じ量ずつ入れたビーカーA〜DにBTB液を数てき入れ、B〜Dに水溶液Yを量を変えながら加えてよくかき混ぜ、液の温度をはかりました。このとき、Cの溶液は緑色を示していました。〈実験2〉そのあと、A〜Dの溶液を蒸発皿に移して水分を蒸発させ、残った固体の重さを調べると、グラフのようになりました。水溶液X・Yは、塩酸と水酸化ナトリウム水溶液のどちらですか。",
+  "q": "【図】ある濃さの水酸化ナトリウム水溶液と塩酸の反応を調べました。〈実験1〉図のように、水溶液Xを同じ量ずつ入れたビーカーA〜DにBTB液を数てき入れ、B〜Dに水溶液Yを量を変えながら加えてよくかき混ぜ、液の温度をはかりました。このとき、Cの溶液は緑色を示していました。〈実験2〉そのあと、A〜Dの溶液を蒸発皿に移して水分を蒸発させ、残った固体の重さを調べると、グラフのようになりました。水溶液Xは（①）です。水溶液Yは（②）です。①②にあてはまるのは、塩酸と水酸化ナトリウム水溶液のどちらですか。",
   "note": "演習問題集、24P、練習問題1 問3・問4",
-  "a": "X…水酸化ナトリウム水溶液　Y…塩酸",
+  "a": "①水酸化ナトリウム水溶液　②塩酸",
   "img": "r3_yomi24.jpg",
   "kai": 3,
   "kind": "memo",
@@ -5954,9 +5954,9 @@ const QA_DATA = [
   "id": "r3m145",
   "subj": "理科",
   "u": "第3回.水溶液の中和",
-  "q": "【図】ある濃さの水酸化ナトリウム水溶液と塩酸の反応を調べました。〈実験1〉図のように、水溶液Xを同じ量ずつ入れたビーカーA〜DにBTB液を数てき入れ、B〜Dに水溶液Yを量を変えながら加えてよくかき混ぜ、液の温度をはかりました。このとき、Cの溶液は緑色を示していました。〈実験2〉そのあと、A〜Dの溶液を蒸発皿に移して水分を蒸発させ、残った固体の重さを調べると、グラフのようになりました。〈実験1〉で、よくかき混ぜたあとのビーカーB・Dの液の色は、それぞれ何色でしたか。",
+  "q": "【図】ある濃さの水酸化ナトリウム水溶液と塩酸の反応を調べました。〈実験1〉図のように、水溶液Xを同じ量ずつ入れたビーカーA〜DにBTB液を数てき入れ、B〜Dに水溶液Yを量を変えながら加えてよくかき混ぜ、液の温度をはかりました。このとき、Cの溶液は緑色を示していました。〈実験2〉そのあと、A〜Dの溶液を蒸発皿に移して水分を蒸発させ、残った固体の重さを調べると、グラフのようになりました。〈実験1〉で、よくかき混ぜたあとのビーカーBの液の色は（①）でした。ビーカーDの液の色は（②）でした。①②にあてはまる色を答えなさい。",
   "note": "演習問題集、24P、練習問題1 問5",
-  "a": "B…青色　D…黄色",
+  "a": "①青色　②黄色",
   "img": "r3_yomi24.jpg",
   "kai": 3,
   "kind": "memo",
@@ -5968,9 +5968,9 @@ const QA_DATA = [
   "id": "r3m146",
   "subj": "理科",
   "u": "第3回.水溶液の中和",
-  "q": "【図】ある濃さの水酸化ナトリウム水溶液と塩酸の反応を調べました。〈実験1〉図のように、水溶液Xを同じ量ずつ入れたビーカーA〜DにBTB液を数てき入れ、B〜Dに水溶液Yを量を変えながら加えてよくかき混ぜ、液の温度をはかりました。このとき、Cの溶液は緑色を示していました。〈実験2〉そのあと、A〜Dの溶液を蒸発皿に移して水分を蒸発させ、残った固体の重さを調べると、グラフのようになりました。〈実験2〉で、ビーカーB・Dに残った固体は、それぞれ何ですか。",
+  "q": "【図】ある濃さの水酸化ナトリウム水溶液と塩酸の反応を調べました。〈実験1〉図のように、水溶液Xを同じ量ずつ入れたビーカーA〜DにBTB液を数てき入れ、B〜Dに水溶液Yを量を変えながら加えてよくかき混ぜ、液の温度をはかりました。このとき、Cの溶液は緑色を示していました。〈実験2〉そのあと、A〜Dの溶液を蒸発皿に移して水分を蒸発させ、残った固体の重さを調べると、グラフのようになりました。〈実験2〉で、ビーカーBに残った固体は（①）です。ビーカーDに残った固体は（②）です。①②にあてはまるものを答えなさい。",
   "note": "演習問題集、24P、練習問題1 問6",
-  "a": "B…食塩と水酸化ナトリウム　D…食塩",
+  "a": "①食塩と水酸化ナトリウム　②食塩",
   "img": "r3_yomi24.jpg",
   "kai": 3,
   "kind": "memo",
@@ -6051,7 +6051,7 @@ const QA_DATA = [
   "id": "r3m152",
   "subj": "理科",
   "u": "第3回.水溶液の中和",
-  "q": "【指示薬の表⑩】表の⑩にあてはまる色を答えなさい。",
+  "q": "【指示薬の表⑬】表の⑬にあてはまる色を答えなさい。",
   "note": "理科29P・35P（指示薬）／演習問題集、20P、まとめ⑪",
   "a": "赤色",
   "img": "r3_shijiyaku.jpg",
@@ -6064,7 +6064,7 @@ const QA_DATA = [
   "id": "r3m153",
   "subj": "理科",
   "u": "第3回.水溶液の中和",
-  "q": "【指示薬の表⑪】表の⑪にあてはまる色を答えなさい。",
+  "q": "【指示薬の表⑭】表の⑭にあてはまる色を答えなさい。",
   "note": "理科29P・35P（指示薬）／演習問題集、20P、まとめ⑪",
   "a": "ピンク色",
   "img": "r3_shijiyaku.jpg",
@@ -6077,7 +6077,7 @@ const QA_DATA = [
   "id": "r3m154",
   "subj": "理科",
   "u": "第3回.水溶液の中和",
-  "q": "【指示薬の表⑫】表の⑫にあてはまる色を答えなさい。",
+  "q": "【指示薬の表⑮】表の⑮にあてはまる色を答えなさい。",
   "note": "理科29P・35P（指示薬）／演習問題集、20P、まとめ⑪",
   "a": "むらさき色",
   "img": "r3_shijiyaku.jpg",
@@ -6090,7 +6090,7 @@ const QA_DATA = [
   "id": "r3m155",
   "subj": "理科",
   "u": "第3回.水溶液の中和",
-  "q": "【指示薬の表⑬】表の⑬にあてはまる色を答えなさい。",
+  "q": "【指示薬の表⑯】表の⑯にあてはまる色を答えなさい。",
   "note": "理科29P・35P（指示薬）／演習問題集、20P、まとめ⑪",
   "a": "緑色",
   "img": "r3_shijiyaku.jpg",
@@ -6103,7 +6103,7 @@ const QA_DATA = [
   "id": "r3m156",
   "subj": "理科",
   "u": "第3回.水溶液の中和",
-  "q": "【指示薬の表⑭】表の⑭にあてはまる色を答えなさい。",
+  "q": "【指示薬の表⑰】表の⑰にあてはまる色を答えなさい。",
   "note": "理科29P・35P（指示薬）／演習問題集、20P、まとめ⑪",
   "a": "黄色",
   "img": "r3_shijiyaku.jpg",
@@ -6239,6 +6239,45 @@ const QA_DATA = [
   "q": "【水溶液の行】重ソウ水について、とけているもの・溶質のすがた・電流・何性 を、この順に答えなさい。",
   "note": "理科28〜30P（水溶液の分類・液性）",
   "a": "炭酸水素ナトリウム・固体・通す・アルカリ性",
+  "kai": 3,
+  "kind": "memo",
+  "priority": "高",
+  "level": "基礎"
+ },
+ {
+  "id": "r3m169",
+  "subj": "理科",
+  "u": "第3回.水溶液の中和",
+  "q": "【指示薬の表②】表の②にあてはまる色を答えなさい。",
+  "note": "理科29P・35P（指示薬）／演習問題集、20P、まとめ⑪",
+  "a": "赤色",
+  "img": "r3_shijiyaku.jpg",
+  "kai": 3,
+  "kind": "memo",
+  "priority": "高",
+  "level": "基礎"
+ },
+ {
+  "id": "r3m170",
+  "subj": "理科",
+  "u": "第3回.水溶液の中和",
+  "q": "【指示薬の表⑥】表の⑥にあてはまる色を答えなさい。",
+  "note": "理科29P・35P（指示薬）／演習問題集、20P、まとめ⑪",
+  "a": "青色",
+  "img": "r3_shijiyaku.jpg",
+  "kai": 3,
+  "kind": "memo",
+  "priority": "高",
+  "level": "基礎"
+ },
+ {
+  "id": "r3m171",
+  "subj": "理科",
+  "u": "第3回.水溶液の中和",
+  "q": "【指示薬の表⑪】表の⑪にあてはまる色を答えなさい。",
+  "note": "理科29P・35P（指示薬）／演習問題集、20P、まとめ⑪",
+  "a": "無色",
+  "img": "r3_shijiyaku.jpg",
   "kai": 3,
   "kind": "memo",
   "priority": "高",
